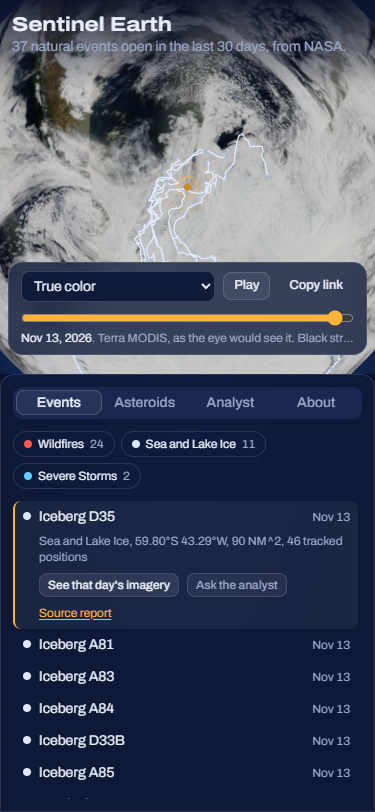
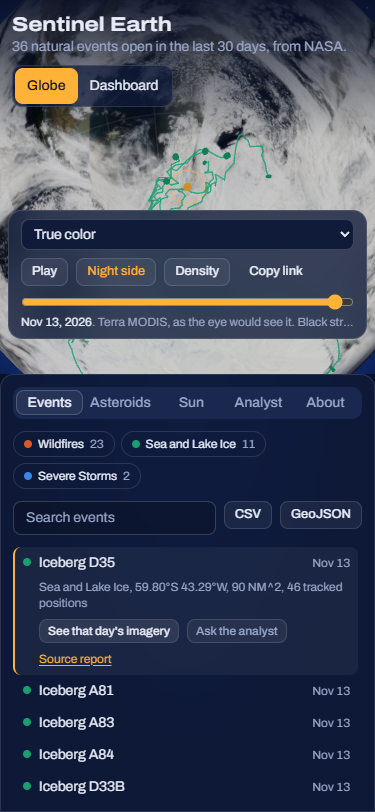
Extend browser check to dashboard, space weather, EPIC, search and export; update README and screenshots

diff --git a/src/components/Sentinel.tsx b/src/components/Sentinel.tsx
@@ -154,7 +154,7 @@ export default function Sentinel() {
       {all.length > 0 && (
         <div className="flex gap-2">
           <label htmlFor="find" className="sr-only">Search events by name</label>
-          <input id="find" type="search" value={query} onChange={(e) => setQuery(e.target.value)} placeholder="Search events by name" className="min-w-0 flex-1 rounded-md border border-input bg-black/20 px-3 py-1.5 text-sm placeholder:text-muted-foreground" />
+          <input id="find" type="search" value={query} onChange={(e) => setQuery(e.target.value)} placeholder="Search events" className="min-w-0 flex-1 rounded-md border border-input bg-black/20 px-3 py-1.5 text-sm placeholder:text-muted-foreground" />
           <Button size="sm" variant="outline" disabled={!visible.length} onClick={() => download("sentinel-earth-events.csv", "text/csv", eventsToCsv(visible))}>CSV</Button>
           <Button size="sm" variant="outline" disabled={!visible.length} onClick={() => download("sentinel-earth-events.geojson", "application/geo+json", JSON.stringify(eventsToGeoJson(visible)))}>GeoJSON</Button>
         </div>
@@ -200,8 +200,8 @@ export default function Sentinel() {
   );
 
   const brand = (
-    <header className="flex items-start justify-between gap-3">
-      <div>
+    <header className="flex flex-wrap items-start justify-between gap-x-3 gap-y-2">
+      <div className="min-w-[12rem] flex-1">
       <h1 className="font-heading text-xl font-bold leading-tight">Sentinel Earth</h1>
       <p className="text-sm text-muted-foreground">
         {all.length ? `${all.length} natural events open in the last 30 days, from NASA.` : "Live NASA data on fires, storms and passing asteroids."}
@@ -252,10 +252,10 @@ export default function Sentinel() {
         <div className="pointer-events-none absolute inset-x-0 top-0 bg-gradient-to-b from-background/90 to-transparent p-3 pb-8">{brand}</div>
       )}
 
-      <section aria-label="Imagery" className="hud absolute inset-x-2 top-[calc(46svh-9.25rem)] rounded-xl px-3 py-2 lg:inset-x-auto lg:bottom-4 lg:left-[372px] lg:right-[412px] lg:top-auto">
+      <section aria-label="Imagery" className="hud absolute inset-x-2 top-[calc(46svh-10.25rem)] rounded-xl px-3 py-2 lg:inset-x-auto lg:bottom-4 lg:left-[372px] lg:right-[412px] lg:top-auto">
         <div className="flex flex-wrap items-center gap-2">
           <label htmlFor="layer" className="sr-only">Imagery layer</label>
-          <select id="layer" value={layerId} onChange={(e) => setLayerId(e.target.value)} className="min-w-0 flex-1 rounded-md border border-input bg-card px-2 py-1.5 text-sm lg:flex-none">
+          <select id="layer" value={layerId} onChange={(e) => setLayerId(e.target.value)} className="min-w-0 basis-full rounded-md border border-input bg-card px-2 py-1.5 text-sm lg:basis-auto">
             {LAYERS.map((l) => <option key={l.id} value={l.id}>{l.name}</option>)}
           </select>
           <Button size="sm" variant="outline" disabled={!!layer.fixedDate} aria-pressed={playing} onClick={() => setPlaying(!playing)}>

diff --git a/src/components/Dashboard.tsx b/src/components/Dashboard.tsx
@@ -241,8 +241,8 @@ export default function Dashboard({ header, events, neos, weather, epic, selecte
             table={{ head: ["When (UTC)", "Event"], rows: sun.map((s) => [stamp.format(new Date(s.time)), s.label]) }}
           >
             {sun.length ? (
-              <svg viewBox="0 0 340 150" className="w-full" role="img" aria-label={`Timeline of ${sun.length} space weather events in the last 30 days, in four rows by kind.`}>
-                {KINDS.map(([k, name], row) => {
+              <svg viewBox="0 0 340 150" className="w-full" role="img" aria-label={`Timeline of ${sun.length} space weather events in the last 30 days, in rows by kind.`}>
+                {KINDS.filter(([k]) => sun.some((s) => s.kind === k)).map(([k, name], row) => {
                   const y = 22 + row * 30;
                   return (
                     <g key={k}>

diff --git a/src/lib/geo.ts b/src/lib/geo.ts
@@ -26,7 +26,7 @@ const BOXES: [string, number, number, number, number][] = [
 ];
 
 export function regionOf(lat: number, lng: number) {
-  if (lat < -60) return "Antarctica and Southern Ocean";
+  if (lat < -60) return "Antarctic";
   return BOXES.find(([, s, n, w, e]) => lat >= s && lat <= n && lng >= w && lng <= e)?.[0] ?? "Open ocean";
 }
 

diff --git a/README.md b/README.md
@@ -1,22 +1,28 @@
 # Sentinel Earth
 
-Live NASA data on fires, storms and passing asteroids, on one 3D globe, with an AI analyst that answers questions from the same feeds.
+Live NASA data on fires, storms, space weather and passing asteroids, on one 3D globe and one dashboard, with an AI analyst that answers questions from the same feeds.
 
 Built for the NASA Space Apps Challenge 2026.
 
 ![Sentinel Earth with an event selected](docs/screenshots/desktop-1440-2-event.png)
 
+![The dashboard](docs/screenshots/desktop-1440-7-dashboard.png)
+
 ## The problem
 
-NASA publishes what is happening to the planet through many separate services: one for natural events, one for satellite imagery, others for near-Earth objects. A disaster analyst who wants to see a wildfire, the satellite pass that imaged it and how it developed over the past weeks has to work across several tools and formats.
+NASA publishes what is happening to the planet through many separate services: one for natural events, one for satellite imagery, others for near-Earth objects and space weather. A disaster analyst who wants to see a wildfire, the satellite pass that imaged it and how it developed over the past weeks has to work across several tools and formats.
 
-Sentinel Earth joins four of those services in one view:
+Sentinel Earth joins six of those services in one place:
 
-- **Natural events.** Every open event from NASA EONET for the last 30 days, on the globe and in a filterable list. Moving events such as storms and icebergs show their track.
+- **Natural events.** Every open event from NASA EONET for the last 30 days, on the globe and in a list you can search and filter. Moving events such as storms and icebergs show their track. Newer reports draw larger, and events from the last 48 hours pulse.
 - **Satellite imagery over time.** Five NASA GIBS layers (true color, fire and burn scars, sea surface temperature, city lights, Blue Marble) with a 30-day date slider and playback.
+- **A globe that shows the real moment.** The day/night line sits where the sun is right now, and the night side shows NASA's Black Marble city lights. A density layer shows where events cluster.
+- **Dashboard.** Key numbers, event reports per day, breakdowns by type and region, the asteroid timeline, space weather, today's picture of Earth and the freshness of every source. Every chart has a table view, and clicking a mark opens that event or asteroid on the globe.
+- **Space weather.** Coronal mass ejections, geomagnetic storms, high-speed solar wind streams and solar flares from NASA DONKI for the last 30 days.
+- **Earth today.** The latest full-disk photograph from the DSCOVR EPIC camera.
 - **Asteroid passes.** Every object passing within 0.05 AU in the next 30 days from JPL, charted by date and miss distance and shown around Earth.
 - **Analyst.** Ask a question in plain language. Claude queries the same feeds through tools, and every event it cites becomes a button that flies the globe there.
-- **Shareable links.** The address always holds the layer, date and selected event, so a briefing can open on an exact view.
+- **Export and share.** Download the listed events as CSV or GeoJSON. The address always holds the view, layer, date and selected event, so a briefing can open on an exact view.
 
 ## Who it is for
 
@@ -31,37 +37,44 @@ NASA Earth Applied Sciences and Disasters program staff, the emergency managers 
 ```mermaid
 flowchart LR
   subgraph Browser
-    UI[Console UI<br/>React 19, Tailwind, shadcn/ui]
-    Globe[3D globe<br/>react-globe.gl, three.js]
+    UI[Console and dashboard<br/>React 19, Tailwind, shadcn/ui, SVG charts]
+    Globe[3D globe<br/>react-globe.gl, three.js, night-side shader]
     Chat[Analyst panel]
   end
   subgraph Server[Next.js 16 route handlers]
     EV[/api/events/]
     NEO[/api/neos/]
+    SW[/api/space-weather/]
+    EP[/api/epic/]
     AN[/api/analyst<br/>Vercel AI SDK, tool calling/]
     Cache[(Memory cache<br/>and bundled snapshots)]
   end
   EONET[NASA EONET v3]
   CAD[JPL SBDB Close-Approach]
   NeoWs[NASA NeoWs]
+  DONKI[NASA DONKI]
+  EPIC[NASA EPIC]
   GIBS[NASA GIBS WMTS tiles]
   Claude[Claude]
 
   UI --> EV --> EONET
   UI --> NEO --> CAD
   NEO --> NeoWs
-  EV --- Cache
-  NEO --- Cache
+  UI --> SW --> DONKI
+  UI --> EP --> EPIC
+  EV & NEO & SW & EP --- Cache
   Globe -->|tiles, direct| GIBS
+  UI -->|image, direct| EPIC
   Chat --> AN --> Claude
-  AN -->|tools| EV
-  AN -->|tools| NEO
+  AN -->|tools| EV & NEO & SW
 ```
 
-- The server normalises each feed into a small typed shape ([src/lib/nasa.ts](src/lib/nasa.ts)) and caches it in memory (events 10 minutes, asteroids 1 hour).
-- If a NASA service fails, the server returns its last good answer, or the snapshot bundled in [src/data](src/data), and marks it as saved data. The interface says so. The demo never shows an empty screen.
-- Imagery tiles load straight from GIBS in the browser; GIBS allows cross-origin requests.
-- The analyst has two tools, `get_natural_events` and `get_close_approaches`, which read the same cached feeds as the interface. It is told to answer only from tool results and to cite event ids.
+- The server normalises each feed into a small typed shape ([src/lib/nasa.ts](src/lib/nasa.ts)) and caches it in memory (events 10 minutes, space weather 30 minutes, asteroids and EPIC 1 hour).
+- If a NASA service fails, the server returns its last good answer, or the snapshot bundled in [src/data](src/data), and marks it as saved data. The interface and the dashboard's freshness table say so. The demo never shows an empty screen.
+- The NASA API key is used only on the server. Imagery tiles and the EPIC photograph load in the browser from hosts that need no key.
+- The night side is one shader on a shell above the globe. It reads the sun's position from the clock and blends in a Black Marble texture bundled in [public/night.jpg](public/night.jpg).
+- The analyst has three tools, `get_natural_events`, `get_close_approaches` and `get_space_weather`, which read the same cached feeds as the interface. It is told to answer only from tool results and to cite event ids.
+- Event colours follow one fixed palette, checked for colour-blind separation and contrast against the panel background.
 
 ## Data sources
 
@@ -69,12 +82,14 @@ flowchart LR
 | --- | --- |
 | [NASA EONET v3](https://eonet.gsfc.nasa.gov/docs/v3) | Open natural events, positions, tracks, magnitudes |
 | [NASA GIBS](https://www.earthdata.nasa.gov/engage/open-data-services-software/earthdata-developer-portal/gibs-api) | Daily imagery: MODIS Terra true color and bands 7-2-1, GHRSST sea surface temperature, VIIRS Black Marble, Blue Marble |
+| [NASA DONKI](https://ccmc.gsfc.nasa.gov/tools/DONKI/) | Space weather: coronal mass ejections, geomagnetic storms, high-speed streams, solar flares |
+| [NASA EPIC](https://epic.gsfc.nasa.gov/) | Latest full-disk photograph of Earth from DSCOVR |
 | [JPL SBDB Close-Approach API](https://ssd-api.jpl.nasa.gov/doc/cad.html) | Asteroid pass dates, distances, speeds, brightness |
 | [NASA NeoWs](https://api.nasa.gov/) | Catalogued asteroid sizes and the potentially-hazardous flag |
 
 ## Setup
 
-Needs Node.js 20.9 or newer.
+Needs Node.js 22.18 or newer.
 
 ```bash
 npm install
@@ -84,19 +99,20 @@ npm run dev                  # http://localhost:3000
 
 | Variable | Needed | Purpose |
 | --- | --- | --- |
+| `NASA_API_KEY` | Recommended | Free from <https://api.nasa.gov>. Used for DONKI, EPIC and NeoWs. Without it the app uses the shared `DEMO_KEY`, which is limited to about 30 requests an hour. |
 | `ANTHROPIC_API_KEY` | For the analyst | Without it the analyst panel reports that it is offline; everything else works. |
-| `NASA_API_KEY` | Optional | Free from <https://api.nasa.gov>. Without it NeoWs uses the shared `DEMO_KEY`, which is rate limited. |
 | `ANALYST_MODEL` | Optional | Defaults to `claude-opus-5-5`. |
 
 ### Checks
 
 ```bash
+npm run selfcheck            # logic: sun position, regions, CSV and GeoJSON export
 npm run build
-npx next start -p 3210
+npx next start -p 3001
 npm run verify               # in a second terminal
 ```
 
-`npm run verify` drives the app in Microsoft Edge at 1440px and 375px, saves screenshots to [docs/screenshots](docs/screenshots) and fails on any console error or failed request. Set `BROWSER_CHANNEL=chrome` to use Chrome. Set `ANTHROPIC_CHECK=1` to also wait for a live analyst answer.
+`npm run verify` drives the app in Microsoft Edge at 1440px and 375px. It selects an event, searches, downloads both exports, opens every tab and the dashboard, waits for the EPIC photograph, saves screenshots to [docs/screenshots](docs/screenshots) and fails on any console error or failed request. Set `BROWSER_CHANNEL=chrome` to use Chrome. Set `ANTHROPIC_CHECK=1` to also wait for a live analyst answer.
 
 ### Deploy
 
@@ -104,23 +120,27 @@ npm run verify               # in a second terminal
 npx vercel --prod
 ```
 
-Add `ANTHROPIC_API_KEY` and `NASA_API_KEY` in the Vercel project settings first. The analyst route has no rate limit, so anyone with the URL can spend your API credits; add a limit before sharing the link widely.
+Add `NASA_API_KEY` and `ANTHROPIC_API_KEY` in the Vercel project settings first. The analyst route has no rate limit, so anyone with the URL can spend your API credits; add a limit before sharing the link widely.
 
 ## Two-minute demo script
 
-1. **0:00 Open the app.** The camera falls in from deep space onto today's Terra imagery. "Everything here is live NASA data. Nothing is mocked."
-2. **0:15 Events.** Point at the counts. Turn Wildfires off and on. Click a storm: the globe flies there and shows its track.
-3. **0:35 Imagery over time.** Click "See that day's imagery". Switch the layer to "Fire and burn scars" on a wildfire. Press Play and let a few days run. "Thirty days of satellite passes, straight from GIBS."
-4. **0:55 Share.** Click "Copy link" and open it in a new tab. Same event, same layer, same date.
-5. **1:05 Asteroids.** Open the Asteroids tab. Read the closest pass from the chart against the Moon's distance line. Click "Show them around Earth".
-6. **1:25 Analyst.** Ask: "Which active wildfires are near populated areas this week?" Click a citation in the answer and the globe flies to it. "The model can only answer from the feeds, and it shows its sources."
-7. **1:50 Resilience.** "If NASA's service goes down mid-demo, the app serves its last saved data and tells you." Close on the About tab and the data sources.
+1. **0:00 Open the app.** The camera falls in from deep space onto today's Terra imagery, daylit side first. Drag the globe to the night side: "That line is where the sun is setting right now, and those are real city lights." "Everything here is live NASA data. Nothing is mocked."
+2. **0:15 Events.** Turn Wildfires off and on. Type "Iceberg" in the search box. Click a storm: the globe flies there and shows its track. Pulsing markers are reports from the last 48 hours.
+3. **0:35 Imagery over time.** Click "See that day's imagery". Switch the layer to "Fire and burn scars" on a wildfire. Press Play and let a few days run. Turn on Density to show where events cluster.
+4. **0:50 Dashboard.** Switch to Dashboard. Read the four key numbers. Hover the reports chart, open "Show as table" once, point at today's EPIC photograph and the freshness table. Click a bar: it lands back on the globe at that event.
+5. **1:10 Space weather.** Open the Sun tab. "Ninety-odd solar eruptions and one geomagnetic storm this month, from NASA's DONKI."
+6. **1:20 Asteroids.** Open the Asteroids tab. Read the closest pass against the Moon's distance line. Click "Show them around Earth".
+7. **1:35 Analyst.** Ask: "Which active wildfires are near populated areas this week?" Click a citation in the answer and the globe flies to it. "The model can only answer from the feeds, and it shows its sources."
+8. **1:50 Share and export.** Click "Copy link" and open it in a new tab: same view. Download the GeoJSON. "If NASA's service goes down mid-demo, the app serves its last saved data and tells you."
 
 ## Known limits
 
 - The "around Earth" asteroid view is a schematic. Distances are to log scale. Directions are placeholders, because the close-approach feed gives distance, not direction.
 - Asteroid sizes marked "about" are estimated from brightness with an assumed albedo of 0.14.
 - EONET positions are points. For events reported as polygons, the first vertex is used.
+- Regions on the dashboard are rough boxes around each continent, labelled as approximate.
+- The day/night line is accurate to about a degree. The city lights are a 2016 composite.
+- NASA's DONKI solar-flare endpoint was returning an error while this was built, so flares are coded from its documentation and have not been seen working. The other three space weather feeds were checked live.
 - There is no population layer. When asked about populated areas, the analyst reasons from coordinates and says it is an estimate.
 - The server cache lives in memory, per instance.
 
